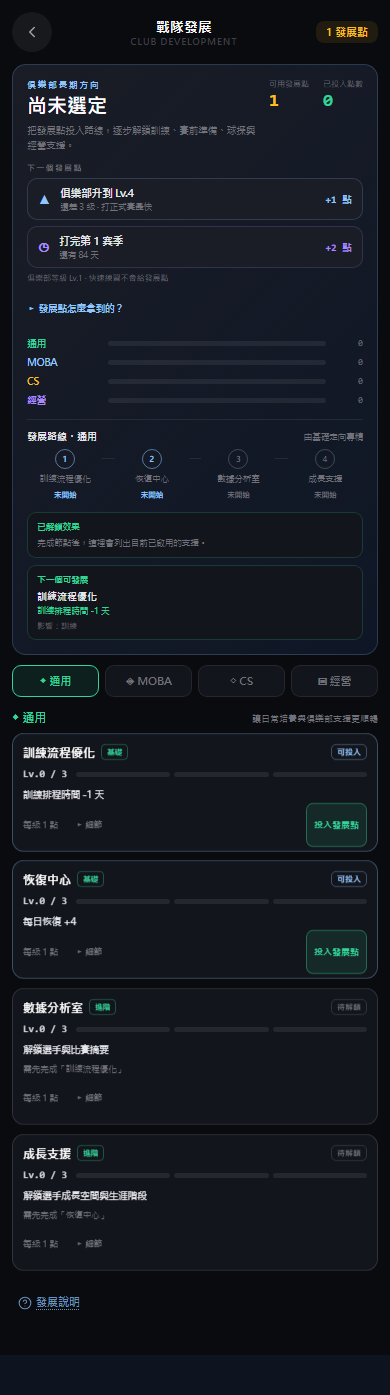
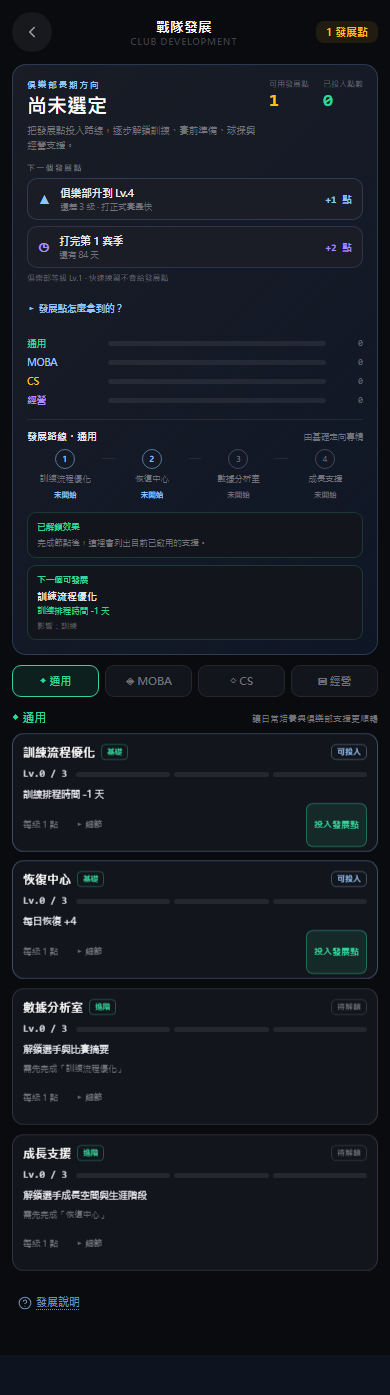
Delete the two dead screens, and prove the talent tree is actually reachable
PreMatchScreen and MenuScreen are gone. Before removing them: no static import,
no lazy or dynamic route, no router branch, no verifier reference, and — the
check that actually settles it — the strings this session had just written into
them do not appear in the production bundle, so nothing was tree-shaking them
back in. The AppShell comment that pointed at MenuScreen is updated rather than
left to send the next reader after a file that no longer exists.

The talent tree turned out to be reachable after all, and last round's report was
wrong about it. The path is roster → tap a player → 開啟完整選手檔案 → player
detail → 查看個人特質. I had found only the talentMode variant of the button,
seen that talentPick has no dashboard entry, and stopped there instead of
following the normal route one step further. No new screen, route or home tile
was added; the existing flow already does what the guardrail asks for.

browser_check_talent_reachable.mjs walks that path on desktop 1366 and mobile 390
without touching setScreen, because a shortcut past navigation is exactly what
would hide a broken entry point. It picks the second player rather than the first
so that landing on the wrong one is detectable, and asserts the screen's
data-player matches the row that was tapped, that the name matches, that the tree
has real controls rather than an empty shell, that back leaves for the player
profile, and that a reload does not strand the player inside someone else's tree.
[…]

diff --git a/src/screens/manage/PlayerTalentScreen.jsx b/src/screens/manage/PlayerTalentScreen.jsx
@@ -60,7 +60,10 @@ export default function PlayerTalentScreen({ playerId, onBack }) {
   };
 
   return (
-    <div style={{ height: "100%", overflow: "auto", background: GC.bg, fontFamily: FONT }}>
+    //  ⚠ `data-player` 帶著實際渲染的 playerId：驗證「有沒有走到天賦頁」與
+    //    「走到的是不是點選的那位選手」需要它。只加屬性，不影響任何行為。
+    <div data-testid="talent-screen" data-player={p?.id ?? ""}
+      style={{ height: "100%", overflow: "auto", background: GC.bg, fontFamily: FONT }}>
       <div style={{ width: "100%", maxWidth: 760, margin: "0 auto", padding: "12px 12px 30px", boxSizing: "border-box" }}>
         {/* 返回列 */}
         <div style={{ display: "flex", alignItems: "center", justifyContent: "space-between", marginBottom: 12 }}>
@@ -78,7 +81,7 @@ export default function PlayerTalentScreen({ playerId, onBack }) {
         <div style={{ display: "flex", alignItems: "center", gap: 12, flexWrap: "wrap", background: GC.card, border: `1px solid ${GC.line}`, borderRadius: 12, padding: "10px 14px", marginBottom: 10 }}>
           <PlayerFace player={p} size={44} />
           <div style={{ minWidth: 0 }}>
-            <div style={{ color: "white", fontSize: 14, fontWeight: 900 }}>{p.name} <span style={{ color: GC.gold, fontSize: 10 }}>Lv.{lp.newLevel}</span></div>
+            <div data-testid="talent-player-name" style={{ color: "white", fontSize: 14, fontWeight: 900 }}>{p.name} <span style={{ color: GC.gold, fontSize: 10 }}>Lv.{lp.newLevel}</span></div>
             <div style={{ color: GC.gray, fontSize: 9.5 }}>{p.role} · XP {lp.xpIntoLevel}/{lp.xpForNextLevel}</div>
           </div>
           <div style={{ marginLeft: "auto", display: "flex", gap: 8, flexWrap: "wrap" }}>

diff --git a/src/AppShell.jsx b/src/AppShell.jsx
@@ -232,8 +232,8 @@ export default function AppShell() {
   return (
     <div data-viewport-locked={viewportLocked ? "1" : "0"} style={shellStyle}>
       {/* Q3.5：主畫面「🏆 賽事」改指向聯賽（不另建第二個入口）。
-          Sprint09 的「賽季戰績」仍在 `season`，由 MenuScreen 進入——那是
-          BattleResult 的統計頁，與聯賽是不同資料源，兩者刻意不合併。 */}
+          ⚠ 2026-09-09：原註解提到的 `MenuScreen` 已刪除（死碼，沒有任何 import、
+            沒有路由、也沒有進 bundle）。賽季戰績的入口現在只有 `season` 這一條。 */}
       {screen === "dashboard" && <DashboardScreen onMoba={go("lineup")} onSeason={go("competition")} onNav={(t) => setScreen(t)} onResumeActive={() => resumeActiveMatch()} />}
       {/* ⚠ 出賽要導到 `lineup`（賽前配置頁）而不是 `matchmaking`。
           `MatchmakingScreen` 是 Sprint11 的**純過場動畫**（寫死對手、假計時），
